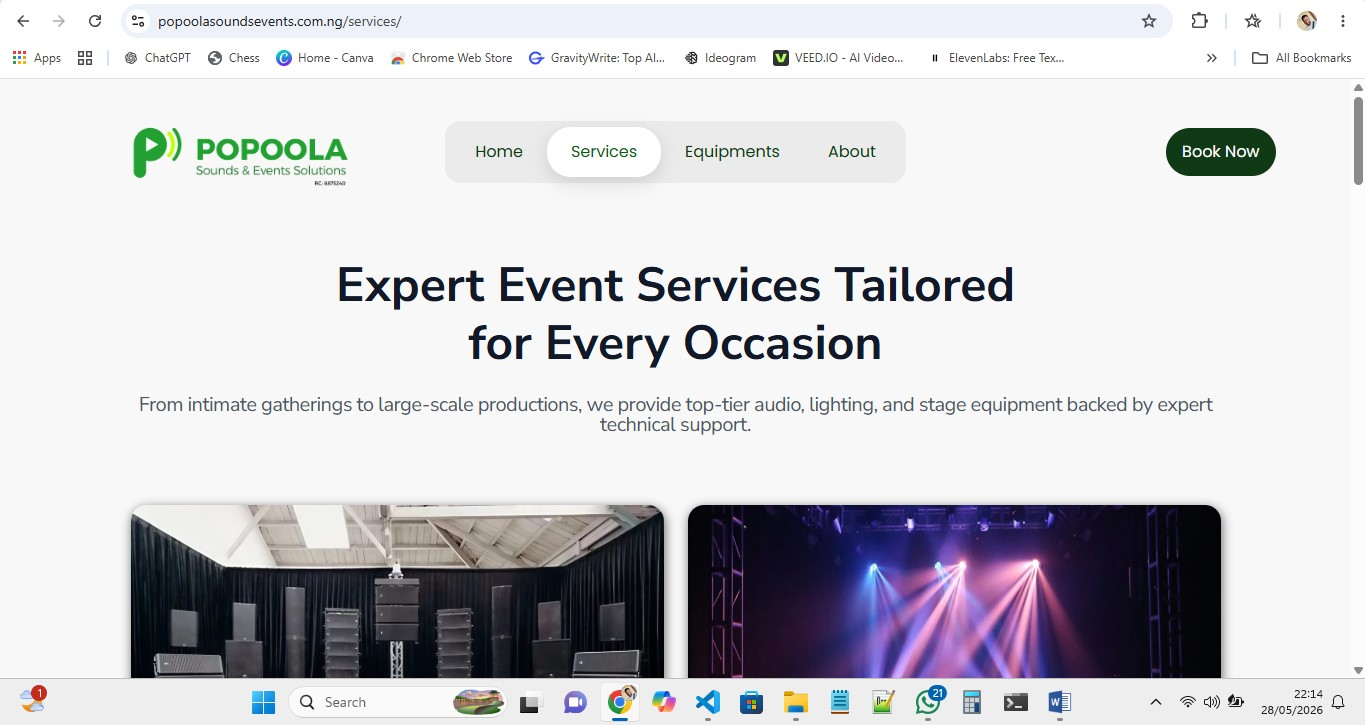
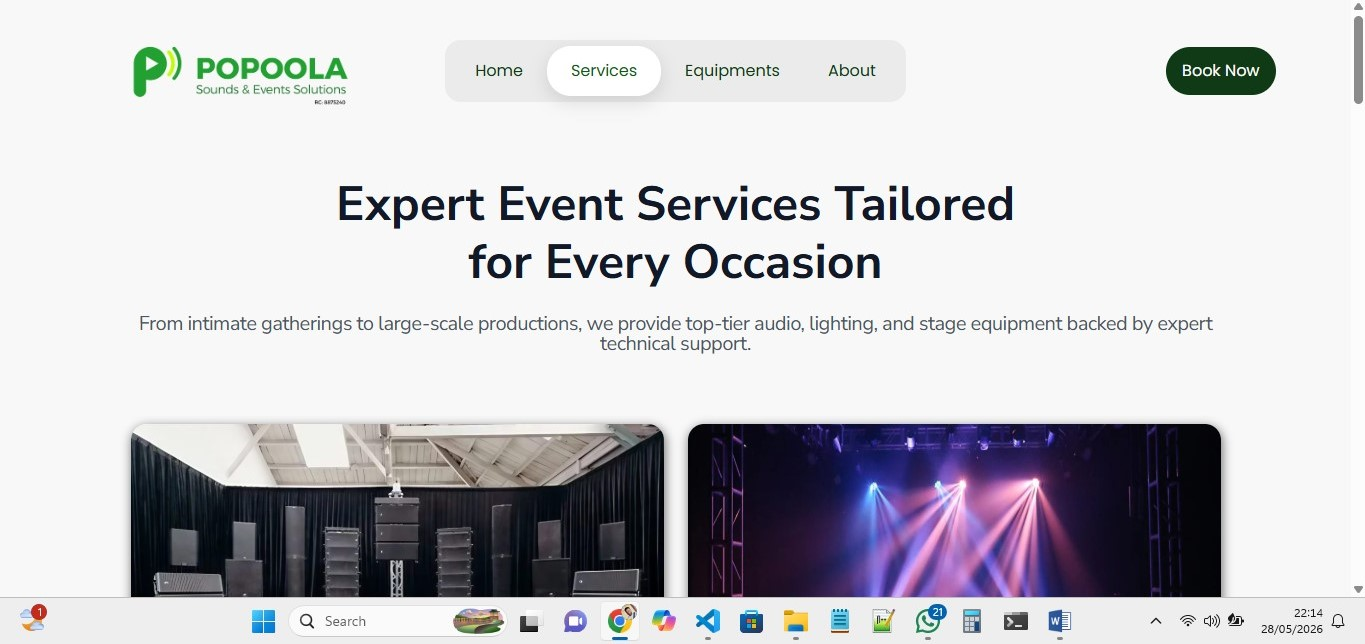
Update portfolio content

diff --git a/index.html b/index.html
@@ -198,9 +198,9 @@
             <h3 class="service-title">Custom Website Development</h3>
             <p class="service-desc">Hand-coded HTML, CSS & JavaScript websites built from scratch; fast, accessible, and pixel-perfect on every screen.</p>
             <ul class="service-list">
-              <li>Responsive & mobile-first</li>
-              <li>Performance optimized</li>
               <li>Clean semantic code</li>
+              <li>Performance optimized</li>
+              <li>Responsive & mobile-first</li>
             </ul>
           </div>
           <div class="service-card reveal">
@@ -219,8 +219,8 @@
             <p class="service-desc">Transform your outdated website into a modern, professional experience that builds trust and drives conversions.</p>
             <ul class="service-list">
               <li>Modern UI overhaul</li>
-              <li>Performance improvement</li>
               <li>Mobile optimization</li>
+              <li>Performance improvement</li>
             </ul>
           </div>
           <div class="service-card reveal">
@@ -228,9 +228,9 @@
             <h3 class="service-title">SEO & Local Visibility</h3>
             <p class="service-desc">Improve your website's search engine ranking and local presence with effective SEO strategies.</p>
             <ul class="service-list">
-              <li>Keyword research</li>
-              <li>On-page optimization</li>
-              <li>Local SEO setup</li>
+              <li>On-page SEO</li>
+              <li>Local search optimization</li>
+              <li>Google Business Profile setup</li>
             </ul>
           </div>
         </div>
@@ -246,16 +246,23 @@
           <p class="section-desc">A selection of projects I've built for clients and personal exploration.</p>
         </div>
         <div class="projects-grid">
+          
+
 
           <!-- Project 1 -->
           <article class="project-card reveal">
             <div class="project-img-wrap">
-              <div class="project-img-placeholder" style="--ph-color: #0f2027">
-                <span>Project Screenshot</span>
-              </div>
-              <div class="project-overlay">
-                <a href="#" class="overlay-btn" target="_blank" rel="noopener">Live Demo ↗</a>
-              </div>
+              <!-- Main visible image -->
+              <img src="images/projects/abitem/pc-abitem-home.jpg" alt="Abitem Homepage" class="project-img lightbox-trigger" data-group="abitem">
+              <!-- Hidden gallery images -->
+              <img src="images/projects/abitem/pc-abitem-home.jpg" class="lightbox-trigger" data-group="abitem" style="display:none;">
+              <img src="images/projects/abitem/pc-abitem-about.jpg" class="lightbox-trigger" data-group="abitem" style="display:none;">
+              <img src="images/projects/abitem/pc-abitem-services.jpg" class="lightbox-trigger" data-group="abitem" style="display:none;">
+              <img src="images/projects/abitem/pc-abitem-services.jpg" class="lightbox-trigger" data-group="abitem" style="display:none;">
+              <img src="images/projects/abitem/pc-abitem-contact.jpg" class="lightbox-trigger" data-group="abitem" style="display:none;">
+              <img src="images/projects/abitem/mobile-abitem-services1.jpeg" class="lightbox-trigger" data-group="abitem" style="display:none;">
+              <img src="images/projects/abitem/mobile-abitem-services2.jpeg" class="lightbox-trigger" data-group="abitem" style="display:none;">
+              <img src="images/projects/abitem/mobile-abitem-services3.jpeg" class="lightbox-trigger" data-group="abitem" style="display:none;">             
             </div>
             <div class="project-body">
               <div class="project-tags">
@@ -263,76 +270,12 @@
                 <span class="tag">CSS</span>
                 <span class="tag">JavaScript</span>
               </div>
-              <h3 class="project-title">Business Landing Page</h3>
-              <p class="project-desc">A responsive landing page for a Lagos-based logistics company, featuring animated hero, service cards, and contact form integration.</p>
-              <div class="project-links">
-                <a href="#" class="project-link primary" target="_blank" rel="noopener">
-                  <svg width="14" height="14" viewBox="0 0 24 24" fill="none"><path d="M18 13v6a2 2 0 0 1-2 2H5a2 2 0 0 1-2-2V8a2 2 0 0 1 2-2h6M15 3h6v6M10 14L21 3" stroke="currentColor" stroke-width="2" stroke-linecap="round" stroke-linejoin="round"/></svg>
-                  Live Demo
-                </a>
-                <a href="#" class="project-link ghost" target="_blank" rel="noopener">
-                  <svg width="14" height="14" viewBox="0 0 24 24" fill="none"><path d="M9 19c-5 1.5-5-2.5-7-3m14 6v-3.87a3.37 3.37 0 0 0-.94-2.61c3.14-.35 6.44-1.54 6.44-7A5.44 5.44 0 0 0 20 4.77 5.07 5.07 0 0 0 19.91 1S18.73.65 16 2.48a13.38 13.38 0 0 0-7 0C6.27.65 5.09 1 5.09 1A5.07 5.07 0 0 0 5 4.77a5.44 5.44 0 0 0-1.5 3.78c0 5.42 3.3 6.61 6.44 7A3.37 3.37 0 0 0 9 18.13V22" stroke="currentColor" stroke-width="2" stroke-linecap="round" stroke-linejoin="round"/></svg>
-                  GitHub
-                </a>
-              </div>
-            </div>
-          </article>
-
-
-
-          
-
-          <!-- Project 2 -->
-          <article class="project-card reveal">
-            <div class="project-img-wrap">
-
-              <!-- Main visible image -->
-              <img 
-                src="images/projects/popoola/pc-popoola-home.jpg"
-                alt="Popoola Homepage"
-                class="project-img lightbox-trigger"
-                data-group="popoola"
-              >
-            
-              <!-- Hidden gallery images -->
-              <img src="images/projects/popoola/pc-popoola-home.jpg"
-                   class="lightbox-trigger"
-                   data-group="popoola"
-                   style="display:none;">
-            
-              <img src="images/projects/popoola/pc-popoola-services.jpg"
-                   class="lightbox-trigger"
-                   data-group="popoola"
-                   style="display:none;">
-
-              <img src="images/projects/popoola/pc-popoola-equipment.jpg"
-                   class="lightbox-trigger"
-                   data-group="popoola"
-                   style="display:none;">
-                   
-              <img src="images/projects/popoola/pc-popoola-about.jpg"
-                   class="lightbox-trigger"
-                   data-group="popoola"
-                   style="display:none;">
-            
-            </div>
-
-
-              <!-- <div class="project-overlay">
-                <a href="https://popoolasoundsevents.com.ng/" class="overlay-btn" target="_blank" rel="noopener">Live Demo ↗</a>
-              </div> -->
-            <div class="project-body">
-              <div class="project-tags">
-                <span class="tag">WordPress</span>
-                <span class="tag">Elementor</span>
-                <span class="tag">CSS</span>
-              </div>
-              <h3 class="project-title">Popoola Sounds & Events</h3>
+              <h3 class="project-title">ABITEM Construction Limited</h3>
               <p class="project-desc">
-                Designed and developed a professional website for an event equipment rental company, helping customers discover services, browse equipment categories, and make booking enquiries through the website and WhatsApp.
+                Designed and developed a professional corporate website for a Nigerian construction company, showcasing residential construction, civil works, project management, and engineering services. Built to strengthen credibility, generate enquiries, and highlight completed projects.
               </p>
               <div class="project-links">
-                <a href="https://popoolasoundsevents.com.ng/" class="project-link primary" target="_blank" rel="noopener">
+                <a href="https://abitemconstruction.com.ng" class="project-link primary" target="_blank" rel="noopener">
                   <i class="fa-solid fa-arrow-up-right-from-square"></i> 
                   Live Demo
                 </a>
@@ -344,62 +287,36 @@
             </div>
           </article>
 
-          <!-- Project 3 -->
+          
+          <!-- Project 2 -->
           <article class="project-card reveal">
             <div class="project-img-wrap">
-              <div class="project-img-placeholder" style="--ph-color: #001a0e">
-                <span>Project Screenshot</span>
-              </div>
-              <div class="project-overlay">
-                <a href="#" class="overlay-btn" target="_blank" rel="noopener">Live Demo ↗</a>
-              </div>
-            </div>
-            <div class="project-body">
-              <div class="project-tags">
-                <span class="tag">HTML</span>
-                <span class="tag">CSS</span>
-                <span class="tag">JS</span>
-              </div>
-              <h3 class="project-title">Personal Finance Tracker</h3>
-              <p class="project-desc">A JavaScript-powered expense tracker with local storage persistence, category filtering, and visual spending summaries.</p>
-              <div class="project-links">
-                <a href="#" class="project-link primary" target="_blank" rel="noopener">
-                  <svg width="14" height="14" viewBox="0 0 24 24" fill="none"><path d="M18 13v6a2 2 0 0 1-2 2H5a2 2 0 0 1-2-2V8a2 2 0 0 1 2-2h6M15 3h6v6M10 14L21 3" stroke="currentColor" stroke-width="2" stroke-linecap="round" stroke-linejoin="round"/></svg>
-                  Live Demo
-                </a>
-                <a href="#" class="project-link ghost" target="_blank" rel="noopener">
-                  <svg width="14" height="14" viewBox="0 0 24 24" fill="none"><path d="M9 19c-5 1.5-5-2.5-7-3m14 6v-3.87a3.37 3.37 0 0 0-.94-2.61c3.14-.35 6.44-1.54 6.44-7A5.44 5.44 0 0 0 20 4.77 5.07 5.07 0 0 0 19.91 1S18.73.65 16 2.48a13.38 13.38 0 0 0-7 0C6.27.65 5.09 1 5.09 1A5.07 5.07 0 0 0 5 4.77a5.44 5.44 0 0 0-1.5 3.78c0 5.42 3.3 6.61 6.44 7A3.37 3.37 0 0 0 9 18.13V22" stroke="currentColor" stroke-width="2" stroke-linecap="round" stroke-linejoin="round"/></svg>
-                  GitHub
-                </a>
-              </div>
-            </div>
-          </article>
-
-          <!-- Project 4 -->
-          <article class="project-card reveal">
-            <div class="project-img-wrap">
-              <div class="project-img-placeholder" style="--ph-color: #1a0a00">
-                <span>Project Screenshot</span>
-              </div>
-              <div class="project-overlay">
-                <a href="#" class="overlay-btn" target="_blank" rel="noopener">Live Demo ↗</a>
-              </div>
+              <!-- Main visible image -->
+              <img src="images/projects/popoola/pc-popoola-home.jpg" alt="Popoola Homepage" class="project-img lightbox-trigger" data-group="popoola">
+              <!-- Hidden gallery images -->
+              <img src="images/projects/popoola/pc-popoola-home.jpg" class="lightbox-trigger" data-group="popoola" style="display:none;">
+              <img src="images/projects/popoola/pc-popoola-services.jpg" class="lightbox-trigger" data-group="popoola" style="display:none;">
+              <img src="images/projects/popoola/pc-popoola-equipment.jpg" class="lightbox-trigger" data-group="popoola" style="display:none;">
+              <img src="images/projects/popoola/pc-popoola-about.jpg" class="lightbox-trigger" data-group="popoola" style="display:none;">
+              <img src="images/projects/popoola/mobile-popoola-home.jpeg" class="lightbox-trigger" data-group="popoola" style="display:none;">             
             </div>
             <div class="project-body">
               <div class="project-tags">
                 <span class="tag">WordPress</span>
+                <span class="tag">Elementor</span>
                 <span class="tag">CSS</span>
-                <span class="tag">SEO</span>
               </div>
-              <h3 class="project-title">Corporate Blog & Portfolio</h3>
-              <p class="project-desc">Multi-page WordPress website with custom theme, blog, SEO optimization, and contact form for a Nigerian consultant.</p>
+              <h3 class="project-title">Popoola Sounds & Events</h3>
+              <p class="project-desc">
+                Designed and developed a professional website for an event equipment rental company in Ogun State, Nigeria. It helps visitors or customers discover services, browse equipment categories, and make booking enquiries through the website and WhatsApp.
+              </p>
               <div class="project-links">
-                <a href="#" class="project-link primary" target="_blank" rel="noopener">
-                  <svg width="14" height="14" viewBox="0 0 24 24" fill="none"><path d="M18 13v6a2 2 0 0 1-2 2H5a2 2 0 0 1-2-2V8a2 2 0 0 1 2-2h6M15 3h6v6M10 14L21 3" stroke="currentColor" stroke-width="2" stroke-linecap="round" stroke-linejoin="round"/></svg>
+                <a href="https://popoolasoundsevents.com.ng/" class="project-link primary" target="_blank" rel="noopener">
+                  <i class="fa-solid fa-arrow-up-right-from-square"></i> 
                   Live Demo
                 </a>
-                <a href="#" class="project-link ghost" target="_blank" rel="noopener">
-                  <svg width="14" height="14" viewBox="0 0 24 24" fill="none"><path d="M9 19c-5 1.5-5-2.5-7-3m14 6v-3.87a3.37 3.37 0 0 0-.94-2.61c3.14-.35 6.44-1.54 6.44-7A5.44 5.44 0 0 0 20 4.77 5.07 5.07 0 0 0 19.91 1S18.73.65 16 2.48a13.38 13.38 0 0 0-7 0C6.27.65 5.09 1 5.09 1A5.07 5.07 0 0 0 5 4.77a5.44 5.44 0 0 0-1.5 3.78c0 5.42 3.3 6.61 6.44 7A3.37 3.37 0 0 0 9 18.13V22" stroke="currentColor" stroke-width="2" stroke-linecap="round" stroke-linejoin="round"/></svg>
+                <a href="#" class="project-link ghost" target="_blank" rel="noopener">                 
+                  <i class="fa-brands fa-github"></i>
                   GitHub
                 </a>
               </div>

diff --git a/style.css b/style.css
@@ -848,27 +848,6 @@ ul, ol {
   opacity: 1;
 }
 
-.overlay-btn {
-  padding: 0.65rem 1.4rem;
-  border: 1px solid rgba(255,255,255,0.3);
-  border-radius: var(--r-md);
-  font-size: 0.82rem;
-  font-weight: 500;
-  color: var(--white);
-  transition: background var(--t-fast), border-color var(--t-fast);
-  transform: translateY(6px);
-  transition: opacity var(--t-base), transform var(--t-base), background var(--t-fast);
-}
-
-.project-card:hover .overlay-btn {
-  transform: translateY(0);
-}
-
-.overlay-btn:hover {
-  background: var(--accent);
-  border-color: var(--accent);
-}
-
 .project-body {
   padding: var(--s-6);
 }

diff --git a/script.js b/script.js
@@ -231,7 +231,7 @@ document.addEventListener("DOMContentLoaded", () => {
         `.lightbox-trigger[data-group="${group}"]`
       ));
 
-      currentIndex = parseInt(el.dataset.index);
+      currentIndex = images.indexOf(el);
 
       showImage();
       lightbox.style.display = "flex";